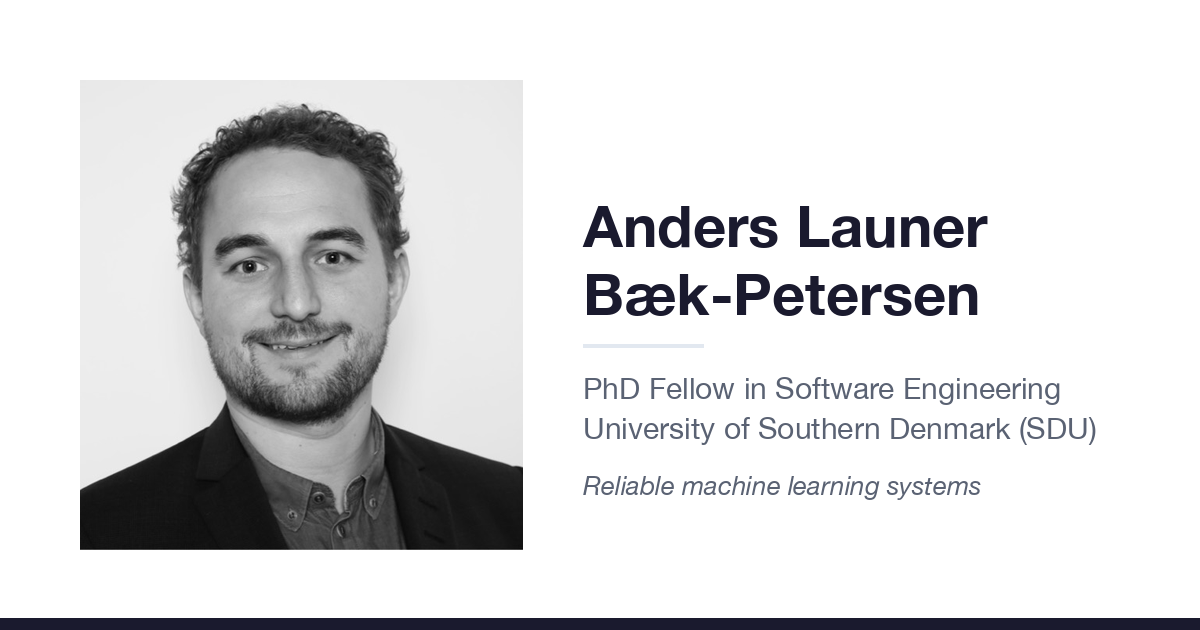
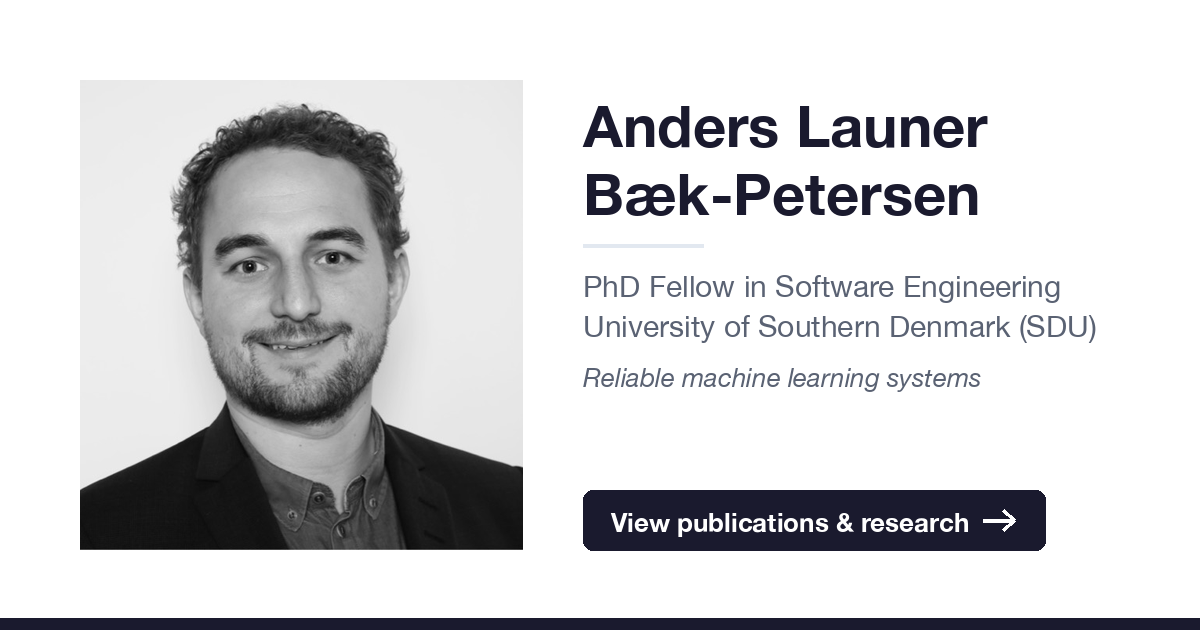
progress..

diff --git a/index.html b/index.html
@@ -27,6 +27,56 @@
   <meta name="twitter:image" content="https://anbae.baekpetersen.dk/assets/og-image.png">
   <meta name="twitter:image:alt" content="Anders Launer Bæk-Petersen, PhD Fellow in Software Engineering at SDU">
 
+  <!-- Structured data (schema.org / Google Knowledge Graph) -->
+  <script type="application/ld+json">
+  {
+    "@context": "https://schema.org",
+    "@type": "Person",
+    "@id": "https://anbae.baekpetersen.dk/#person",
+    "name": "Anders Launer Bæk-Petersen",
+    "givenName": "Anders",
+    "familyName": "Bæk-Petersen",
+    "url": "https://anbae.baekpetersen.dk/",
+    "image": "https://anbae.baekpetersen.dk/assets/profile.png",
+    "jobTitle": "PhD Fellow in Software Engineering",
+    "description": "PhD Fellow in Software Engineering at the University of Southern Denmark (SDU), researching how to make machine learning systems reliable in production.",
+    "email": "mailto:anbae@mmmi.sdu.dk",
+    "worksFor": {
+      "@type": "CollegeOrUniversity",
+      "name": "University of Southern Denmark",
+      "alternateName": "SDU",
+      "url": "https://www.sdu.dk/"
+    },
+    "alumniOf": [
+      {
+        "@type": "CollegeOrUniversity",
+        "name": "Technical University of Denmark",
+        "alternateName": "DTU",
+        "url": "https://www.dtu.dk/"
+      },
+      {
+        "@type": "CollegeOrUniversity",
+        "name": "University of Southern Denmark",
+        "alternateName": "SDU",
+        "url": "https://www.sdu.dk/"
+      }
+    ],
+    "knowsAbout": [
+      "Software engineering",
+      "Software architecture",
+      "Machine learning systems",
+      "MLOps",
+      "Operational metrics",
+      "Self-adaptive systems",
+      "Self-managing systems",
+      "AI pipelines"
+    ],
+    "sameAs": [
+      "https://www.linkedin.com/in/anderslaunerbaek/"
+    ]
+  }
+  </script>
+
   <link rel="stylesheet" href="style.css">
 </head>
 
